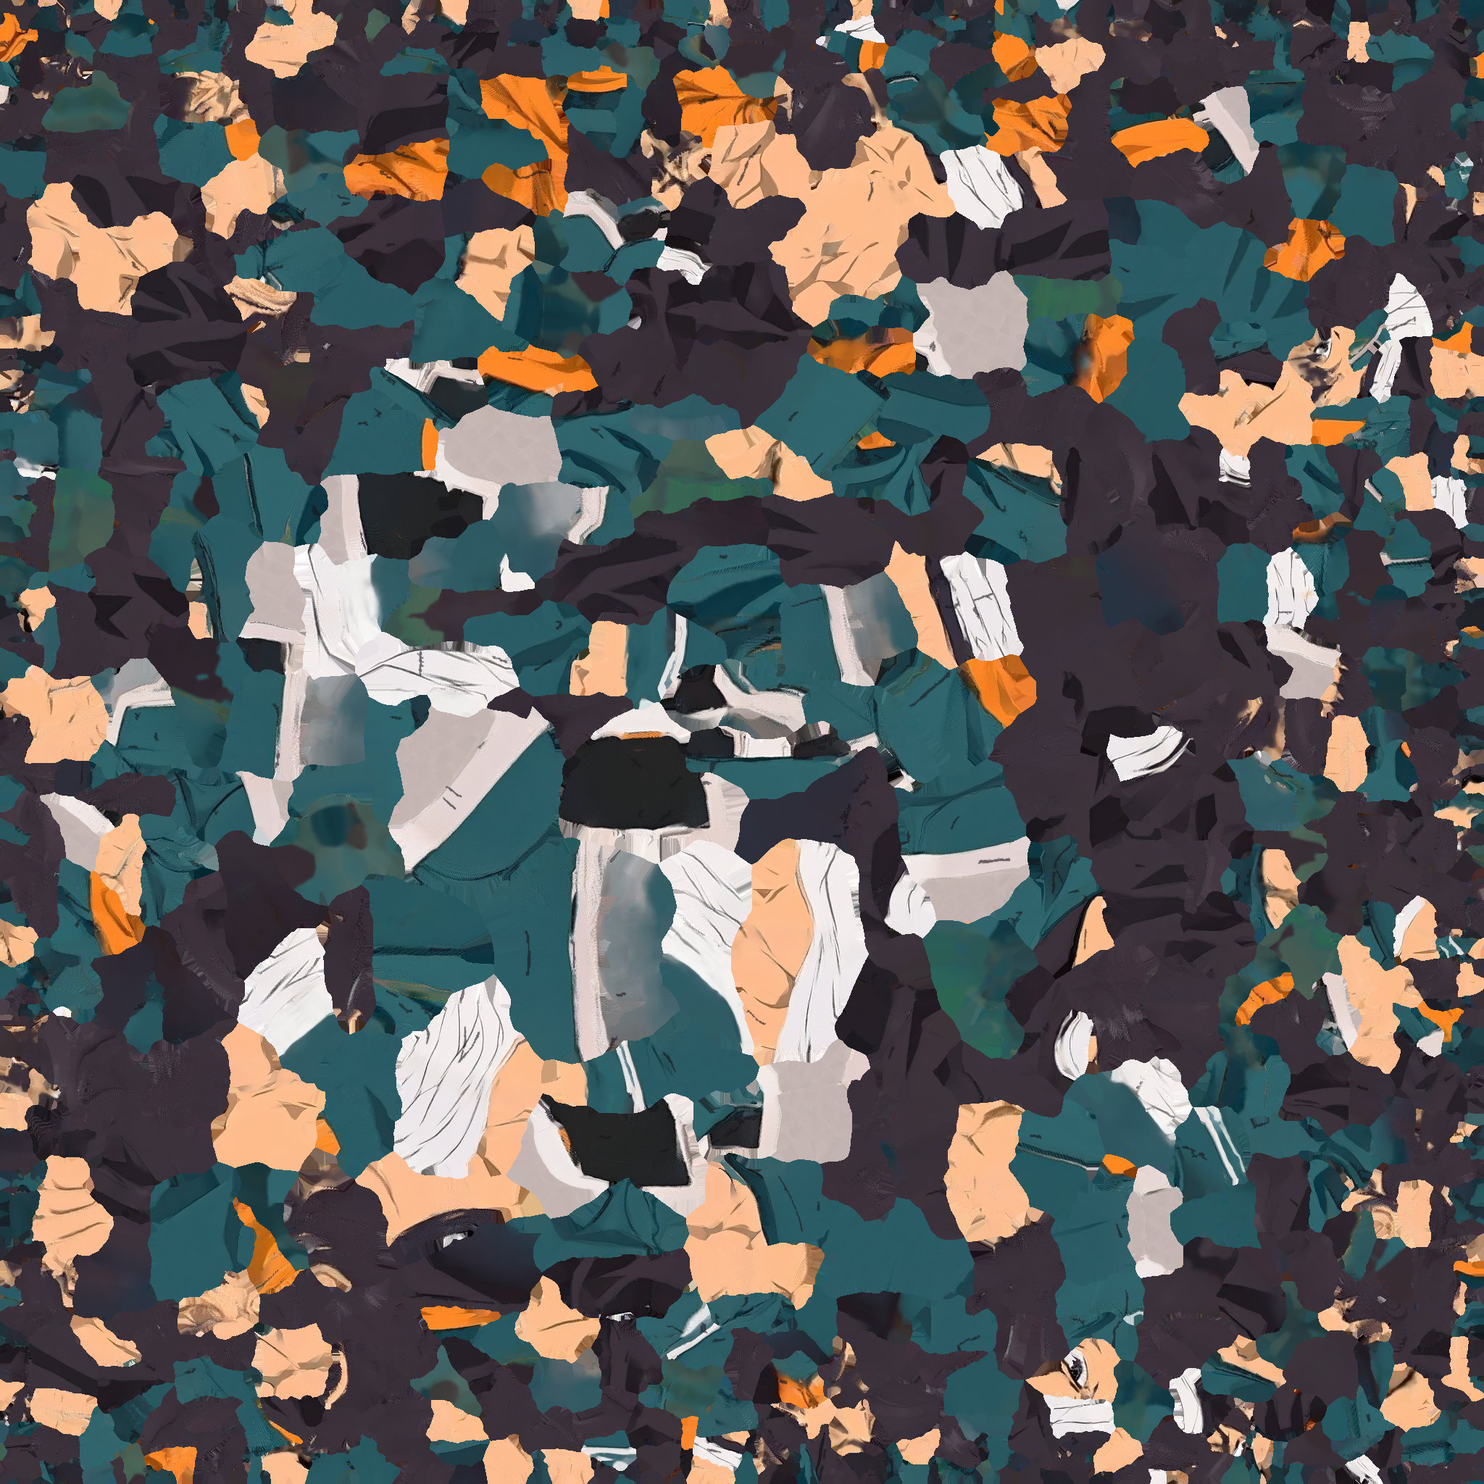
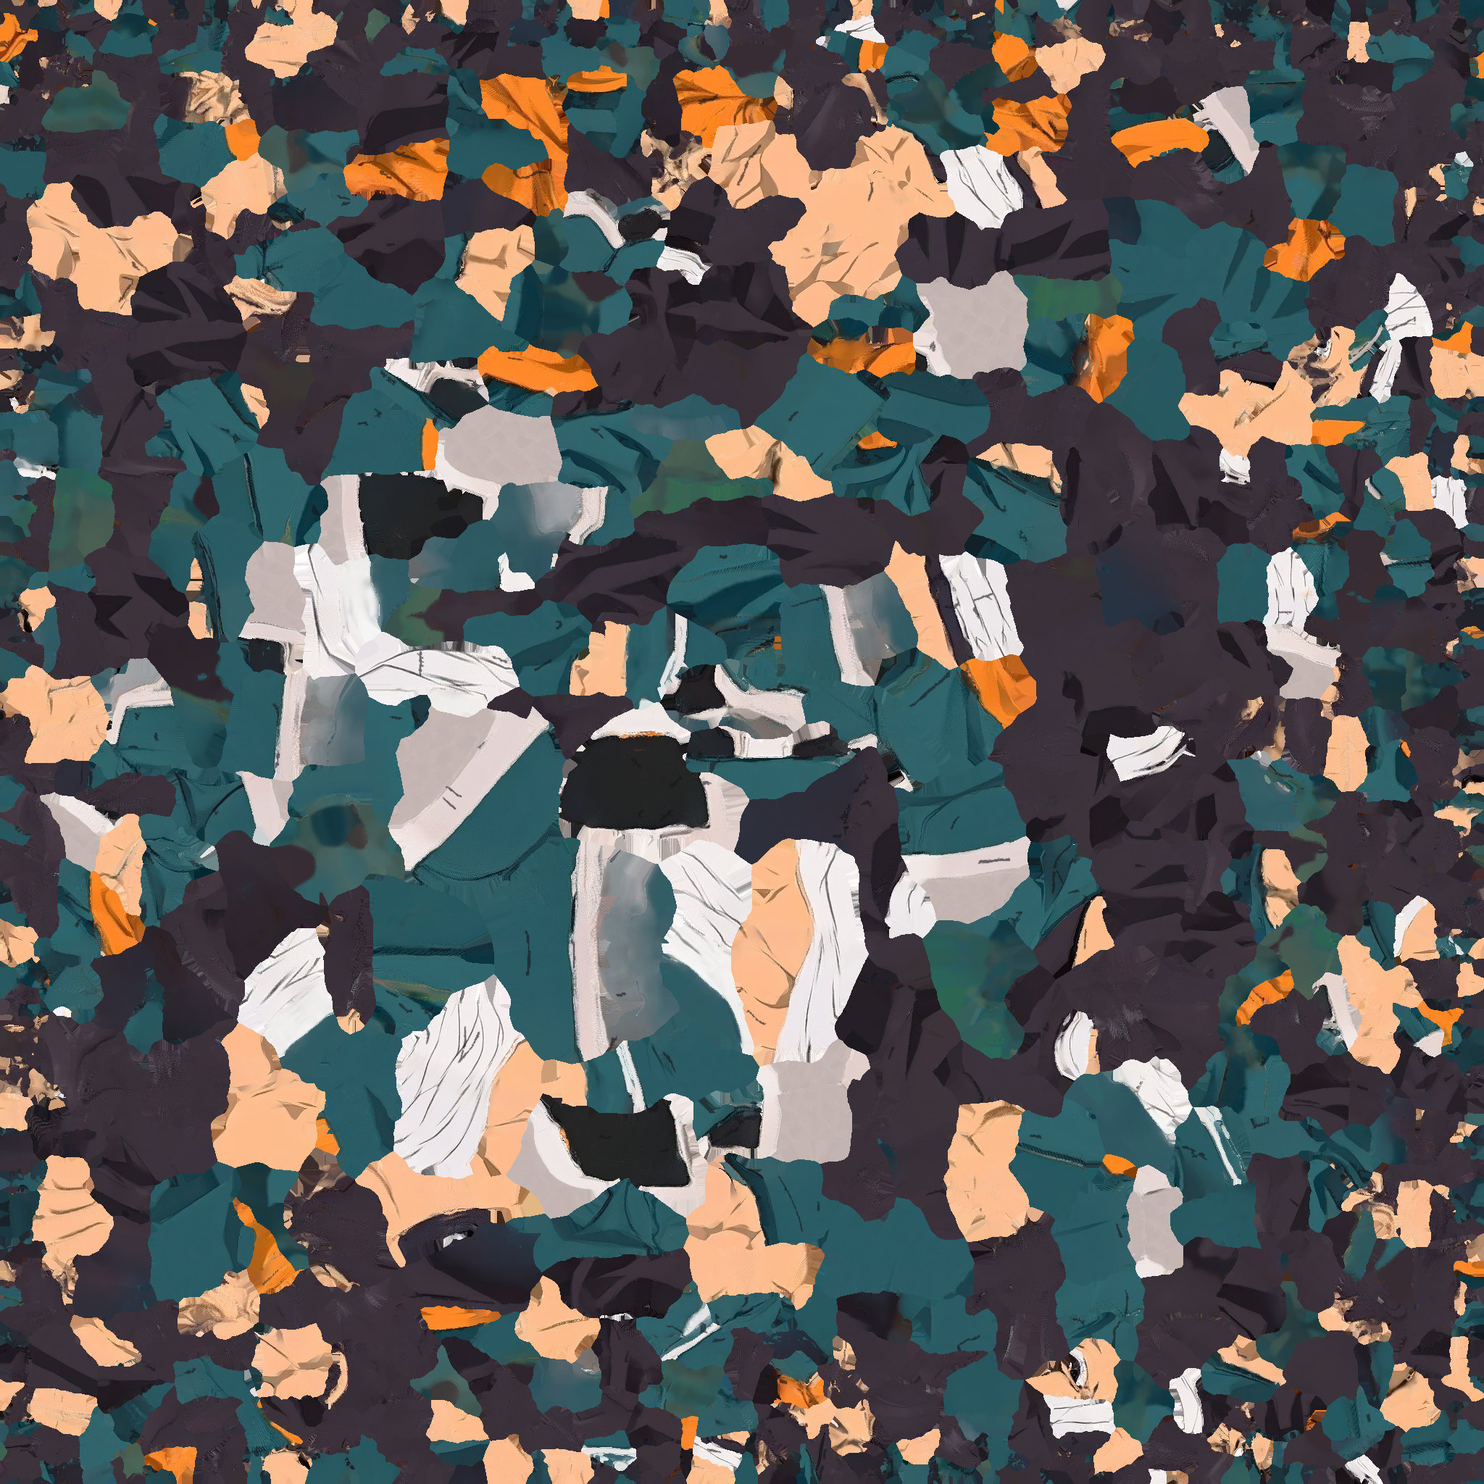
Anteprima di Ren: bordi netti tra i colori del corpo
paint_meshy.clean_borders: ogni texel vicino a un bordo tra due parti
(gilet, pelle, fasce, scuri, fascia arancione) prende il colore della
parte che il modello ha li', calcolata in 3D attraverso le cuciture: via
i denti, gli schizzi e le mezze tinte del pennello di Meshy (arancione sul
gilet, pelle nei polsini, verde agli scalfi) e lo zigzag dei triangoli
sul bordo della fascia. Le righe scure restano.

Claude-Session: https://claude.ai/code/session_014XUVKvWBodq3kjfPiKyGRo

diff --git a/tools/paint_meshy.py b/tools/paint_meshy.py
@@ -16,6 +16,10 @@ usage: python3 tools/paint_meshy.py PACKAGE_DIR DRAWN.jpg OUT.jpg
   shapes (the clothes they covered, painted in greys and tans by Meshy: grey shards along the vest's edge once the tails
   were gone, 9/11/2026, Denis: "ce ancora un pezzo di fascia rimuovilo") every colour but the vest's teal and the
   trousers' purple, in one of the two: the one most of the nearest texels are;
+- the borders between the parts clean (clean_borders; 9/11/2026, Denis: "dove si sovrappongono i colori"): Meshy's brush
+  left each part's colour in ragged teeth, specks and mixes over the next one (the sash's orange on the vest, the skin
+  into the wristbands, the vest's green into the skin at the armholes), and along the texture's seams the zigzag of the
+  triangles; each texel near a border takes the colour of the part the model has there, smoothed on the model itself;
 - the tracing: the drawings' dark lines (darker than TRACE_LUM, thinner than about 2 TRACE_W + 1 texels: not the big
   black shapes of the folds; in pieces of TRACE_MIN texels or more: lines, not specks) over Meshy's paint in TRACE_INK,
   TRACE_ALPHA opaque; not on the hands (drawn spread differently) nor on the head;
@@ -34,6 +38,14 @@ from ren_look import sash_tails, SASH_BAND, TAILS_TOUCH
 TRACE_LUM, TRACE_W, TRACE_ALPHA, TRACE_INK, TRACE_MIN = 50., 2, .6, np.array([22., 20, 26]), 30
 TAIL_LOW, FILL_K = .12, 48   # the old tails' paint: from this height (m) up to the band; its fill: the median of that many texels
 TAIL_NEAR = .02   # the clothes under the old tails: this near (m) their hidden shapes, every colour but the vest's and the trousers'
+# the borders between the clothes, the skin and the sash clean (9/11/2026, Denis: "dove si sovrappongono i colori"): see
+# clean_borders. BORDER_SIGMA (m), BORDER_STEP (texels), BORDER_NN: the parts' shares around each texel, a gaussian of
+# that width over a sample every that many texels, its that many nearest; BORDER_NEAR: another part with that share or
+# more is a border near; BORDER_K: the colour of a texel redone is the median of that many of its part's nearest texels
+# away from the borders; BORDER_MIX: a texel of no part this near (rgb) the line between the colours of the two parts it
+# lies between is their mix (redone); BORDER_SPECK: a speck of one part inside another, up to that many texels (redone)
+BORDER_SIGMA, BORDER_STEP, BORDER_NN, BORDER_NEAR, BORDER_K, BORDER_MIX, BORDER_SPECK = .004, 2, 32, .12, 24, 45., 60
+TEAL_, SKIN_, LIGHT_, DARK_, ORANGE_, MIXED_ = range(6)
 
 
 def orangeish(c):
@@ -54,6 +66,89 @@ def purple(c):
     """The trousers' dark purple grey (n x 3): dark, red and blue not under green."""
     r, g, b = c[:, 0], c[:, 1], c[:, 2]
     return (c.mean(1) < 95) & (r >= g - 2) & (b >= g - 4) & ~orangeish(c)
+
+
+def parts(c):
+    """The part each colour belongs to (n x 3): the vest's teal (its shadows too), the skin (its shadows too), light (the
+    wraps and their grey folds, the trims), dark (the trousers' purple grey, the undershirt, the boots, the wristbands,
+    lines), the sash's orange, or a mix of none."""
+    r, g, b = c[:, 0], c[:, 1], c[:, 2]; lum = c.mean(1); mx, mn = c.max(1), c.min(1)
+    k = np.full(len(c), MIXED_)
+    k[(r > 100) & (b > .36 * r) & (b < .8 * r) & (g > .5 * r) & (g < .9 * r) & (r - b > 30)] = SKIN_
+    k[(mn > 120) & (mx - mn < 50)] = LIGHT_
+    k[(lum < 75) & (np.abs(r - b) < 45) & (g <= np.maximum(r, b) + 6)] = DARK_
+    k[(r > 120) & (b < .32 * r) & (g > .3 * r) & (g < .75 * r)] = ORANGE_
+    k[(g - r > np.maximum(6, .15 * g)) & (b - r > 0) & (lum > 12)] = TEAL_
+    return k
+
+
+def clean_borders(img, ys, xs, pos, nor):
+    """The borders between the parts (parts()) clean, as drawn: Meshy painted them with a brush, ragged, each part's
+    colour in teeth and specks over the other's and mixes of the two between, and along the texture's seams its pieces
+    meet in the triangles' zigzag. On the model (in 3D, across the seams): each part's share around every texel (its
+    texels, without the thin lines and specks: opened in the texture; a sample every BORDER_STEP texels, weighted by a
+    gaussian of BORDER_SIGMA m and by facing the same way) gives the texel its part, the one with the most; where another
+    part has BORDER_NEAR of it or more (a border near), a texel painted in that part's colour or in a mix of the two
+    (BORDER_MIX) takes its own part's colour; so does a speck (up to BORDER_SPECK texels) of a part inside another's;
+    dark lines are kept. The new colours: the median of the BORDER_K nearest texels of the part (in 3D) away from the
+    borders, softened among themselves. img (h x w x 3 float) is changed in place; returns the texels redone (a mask over
+    ys, xs)."""
+    TS = img.shape[0]; c = img[ys, xs]; k = parts(c)
+    cls = np.full((TS, TS), -1); cls[ys, xs] = k
+    big = np.full((TS, TS), -1)
+    for p_ in range(5):
+        r_ = 2 if p_ == DARK_ else 1
+        disk = np.hypot(*np.mgrid[-r_:r_ + 1, -r_:r_ + 1]) <= r_ + .01
+        big[ndimage.binary_opening(cls == p_, structure=disk)] = p_
+    kb = big[ys, xs]
+    smp = np.nonzero((kb >= 0) & (ys % BORDER_STEP == 0) & (xs % BORDER_STEP == 0))[0]
+    tree = cKDTree(pos[smp]); F = np.zeros((len(k), 5))
+    for i0 in range(0, len(k), 200000):
+        q = slice(i0, min(i0 + 200000, len(k)))
+        d, j = tree.query(pos[q], k=BORDER_NN, distance_upper_bound=3 * BORDER_SIGMA)
+        ok = np.isfinite(d); j = np.where(ok, j, 0)
+        w = np.exp(-.5 * (np.where(ok, d, 0) / BORDER_SIGMA) ** 2) * ok * np.clip((nor[smp][j] * nor[q][:, None, :]).sum(2), 0, 1)
+        for p_ in range(5): F[q, p_] = (w * (kb[smp][j] == p_)).sum(1)
+    tot = F.sum(1); F /= np.maximum(tot, 1e-9)[:, None]
+    has = tot > 1e-6
+    order = np.argsort(-F, 1); s_ = np.where(has, order[:, 0], -1); o_ = order[:, 1]
+    f2 = np.take_along_axis(F, o_[:, None], 1)[:, 0]
+    near = has & (f2 >= BORDER_NEAR)
+    speck = np.zeros(len(k), bool)
+    for p_ in (TEAL_, SKIN_, LIGHT_, ORANGE_):
+        lb, nb = ndimage.label(cls == p_, structure=np.ones((3, 3)))
+        if not nb: continue
+        sz = np.bincount(lb.ravel())[lb[ys, xs]]
+        speck |= (k == p_) & (sz <= BORDER_SPECK) & has & (s_ != p_)
+    pure = has & (k == s_) & (F.max(1) > .97)
+    src = {p_: np.nonzero(pure & (k == p_))[0] for p_ in range(5)}
+    trees = {p_: cKDTree(pos[v]) for p_, v in src.items() if len(v) >= BORDER_K}
+    def median_of(p_, q):
+        _, j = trees[p_].query(pos[q], k=BORDER_K); return np.median(c[src[p_][j]], axis=1)
+    redo = np.zeros(len(k), bool); new = c.copy()
+    a = (near & (k == o_) & (k != s_)) | speck   # (another part's colour near its border; a speck)
+    mix = near & (k == MIXED_)
+    for p_ in range(5):
+        if p_ not in trees: continue
+        q = np.nonzero((a | mix) & (s_ == p_))[0]
+        if not len(q): continue
+        own = median_of(p_, q); keep_q = np.ones(len(q), bool); mq = mix[q]
+        for o2 in range(5):
+            sel = mq & (o_[q] == o2)
+            if not sel.any(): continue
+            if o2 not in trees: keep_q[sel] = False; continue
+            oth = median_of(o2, q[sel]); x = c[q[sel]]; e = oth - own[sel]
+            t = np.clip(((x - own[sel]) * e).sum(1) / np.maximum((e * e).sum(1), 1e-9), 0, 1)
+            dseg = np.linalg.norm(x - (own[sel] + t[:, None] * e), axis=1); keep_q[np.nonzero(sel)[0][dseg > BORDER_MIX]] = False
+        q = q[keep_q]; new[q] = own[keep_q]; redo[q] = True
+    acc = np.zeros((TS, TS, 3)); cnt = np.zeros((TS, TS)); acc[ys[redo], xs[redo]] = new[redo]; cnt[ys[redo], xs[redo]] = 1
+    sm = np.stack([ndimage.gaussian_filter(acc[..., i], 1.) for i in range(3)], -1) / np.maximum(ndimage.gaussian_filter(cnt, 1.), 1e-6)[..., None]
+    img[ys[redo], xs[redo]] = sm[ys[redo], xs[redo]]
+    names = ['vest', 'skin', 'light', 'dark', 'orange']
+    print('borders: %d texels redone (%d of another part near its border, %d mixes, %d specks); by part: %s' % (
+        int(redo.sum()), int((redo & a & ~speck).sum()), int((redo & mix).sum()), int((redo & speck).sum()),
+        ', '.join('%s %d' % (names[p_], int((redo & (s_ == p_)).sum())) for p_ in range(5))))
+    return redo
 
 
 def main(pkg, drawn, out):
@@ -93,6 +188,9 @@ def main(pkg, drawn, out):
     sm = np.stack([ndimage.gaussian_filter(acc[..., k], 1.5) for k in range(3)], -1) / np.maximum(ndimage.gaussian_filter(cnt, 1.5), 1e-6)[..., None]
     out_img[ys[bad], xs[bad]] = sm[ys[bad], xs[bad]]
     print('old tails\' paint: %d texels under the band (orange or brown) in the colour of the clothes around them' % int(bad.sum()))
+    # the borders between the parts clean (before the tracing: its lines stay as drawn)
+    redo = clean_borders(out_img, ys, xs, pos, nor)
+    if os.environ.get('BORDER_DEBUG'): np.savez(os.environ['BORDER_DEBUG'], ys=ys[redo], xs=xs[redo])
     # the tracing: the drawings' thin dark lines
     inside = np.zeros((TS, TS), bool); inside[ys, xs] = True
     dark = (Dw.mean(2) < TRACE_LUM) & inside

diff --git a/docs/HANDOFF.md b/docs/HANDOFF.md
@@ -150,6 +150,7 @@ Cose notate nelle revisioni; non costruirle finché Denis non lo chiede.
   - Corpo nella pittura di Meshy con calchi leggeri (8/11 sera, versione 44; Denis: "il modello di meshy senza i tuoi disegni è molto più pulito nei vestiti ed il resto del corpo senza toccare il viso, riesci a rifarlo disegnato come meshy ma con leggeri calchi?", e sulla 43: "non hai rimosso le fasce che abbiamo sostituito, le hai semplicemente colorate"): `tools/paint_meshy.py` fa la pittura del look (`ren_painted.jpg`) partendo dalla texture di Meshy: (1) l'arancione delle vecchie code (Meshy le aveva dipinte anche sui pantaloni e sulle punte del gilet sotto la fascia: puntini e strisce arancioni e marroni, chiari e scuri; e sulle code stesse, che pur nascoste lo trascinavano nei pantaloni vicini con il filtro della texture) prende il colore dei vestiti intorno (la mediana dei 48 texel più vicini in 3D che non sono arancioni: non una striscia chiara di Meshy); (2) le righe nere sottili dei fogli (quelle che `paint_from_drawing.py` + `paint_views.py` dipingono sul modello, solo le linee, non le grandi pieghe nere, a pezzi di almeno 30 texel) ricalcate al 60% sopra; (3) i texel fuori dai pezzi prendono il colore del pezzo più vicino (prima, attorno ai pezzi sottili restavano i colori vecchi: l'arancione delle code accanto a un texel dei pantaloni); (4) salvata a colore pieno (JPEG 4:4:4: con il colore a metà risoluzione l'arancione della fascia sbavava nei pantaloni ai bordi dei pezzi; 890 KB contro 705). Fasce di braccia e caviglie e stivali tornano quelli di Meshy (bianco pulito). La testa non cambia (il colletto prende la nuova pittura del gilet). `paint_from_drawing.py` e `paint_views.py` restano, ora servono a dare le righe. Tempo per fotogramma nel rumore (stessa geometria). Nota: `viewer_check.py` è fallito una volta su 9 prove (non ripetuto; il dettaglio non era nel registro).
   - Via l'ultimo pezzo della vecchia fascia (9/11 notte, versione 45; Denis: "ce ancora un pezzo di fascia rimuovilo", con la foto del fianco sinistro: schegge grigie e scure lungo il bordo del gilet tra la mano e il nastro): erano (1) la fila di triangoli che univa la vecchia coda al gilet (un solo vertice sulla coda: restava, a denti neri lungo il bordo) e (2) il gilet sotto la coda, che Meshy aveva dipinto di grigi e beige (non arancione: la regola dell'arancione non li prendeva; e il riempimento, la mediana di verde e viola insieme, faceva un grigio fangoso). Ora: `ren_look.TAILS_TOUCH = 1` (prima 2) in `ren_head.py` e `paint_meshy.py`: nascosti anche i triangoli con un solo vertice sulle code (148 in più, 9596 nascosti in tutto); in `paint_meshy.py`, entro `TAIL_NEAR` (2 cm) dalle code nascoste ogni colore che non è il verde del gilet (`teal`) né il viola dei pantaloni (`purple`) si ridipinge col colore di uno solo dei due, quello della maggioranza dei 48 texel vicini. Provato da 8 angoli da fermo e in 8 pose delle mosse (calci, camminata, accovacciato, a terra) con un controllo dei buchi (render degli id col contorno e i nastri spenti: sfondo chiuso dal corpo): nessun buco nuovo (359 pixel sospetti contro i 382 della 44, gli stessi punti, sotto i nastri o tra polso e fianco). Spariti anche i denti neri sul fianco destro visto di tre quarti e le schegge attorno al nodo nella posa "a terra". Resta una piccola punta verde scuro sotto l'orlo, vicino alla mano (triangoli di Meshy grigi sotto la coda: nasconderli apriva fessure nel gilet, provato e scartato). Tempo per fotogramma: 54,0 e 52,4 ms contro 57,9 e 54,3 della 44 (nel rumore, 148 triangoli in meno). Test tutti verdi.
   - Gobba sotto il colletto e fascia che si stira accovacciato (9/11, versione 46; Denis: "vestito crea sta specie di gobba sulla schiena sotto al colletto" e "la fascia si distorce quando si abbassa", con due foto dall'anteprima). (1) La gobba: il colletto della testa nuova toccava il gilet alla base (1,44-1,46 m) ma sopra stava 3 cm più dentro; in guardia la colonna si piega avanti di circa 26° e il retro del gilet saliva dietro il colletto come una gobba (nel foglio `ren_retro.png` il colletto è largo e poggia sulla schiena). Ora `ren_head.COLLAR_FLARE`: la parete posteriore del colletto (i suoi vertici, non testa né collo; da 1,455 m, tutta da 1,475 m; dietro il collo, z sotto -0,04, tutta sotto -0,08) va indietro di 3 cm, con le normali girate di conseguenza; le copie dei vertici sulle cuciture della texture si spostano insieme (spostate a parte aprivano il colletto: il raccordo col gilet passava da 119 a 169 punti). Da sopra si vede un po' di spazio tra collo e colletto, come un colletto aperto. Provato e scartato: spostare sulla colonna i pesi di braccia e spalle del retro del gilet (Meshy lo aveva legato per un terzo a ogni braccio): la gobba restava, anzi un filo più alta (in guardia le braccia la tiravano giù). (2) La fascia: Meshy l'aveva legata per un terzo alle cosce e in alto alla colonna, così accovacciato il retro si stirava fino a tre volte la sua altezza. Ora (`ren_look.band_on_hips`, solo nella pelle del look; il gioco non cambia) il retro della fascia (da 1,09 a 1,15 m; dietro z -0,04, sfuma a niente a +0,04; 3 cm di passaggio sopra e sotto) segue tutto il bacino: resta una striscia anche accovacciato, nel salto e nel calcio alto. Il davanti resta com'era: rigido anche lui, le cosce che salgono ci entravano e i nastri si accartocciavano nelle mosse basse (provato e scartato). Nastri dentro il corpo (`viewer_check`) uguali alla 45 (in basso 2,0-2,3%, a terra 2,2%). Controllo buchi su 12 viste e pose: nessuno nuovo. Tempo per fotogramma uguale (56,1 e 58,0 ms contro 56,4 e 57,7). Test tutti verdi.
+  - Bordi netti tra i colori (9/11, versione 47; Denis: "i colori della giacchetta verde sopra le braccia ecc in generale sul pg", poi "diciamo dove si sovrappongono i colori"). Cercato prima il verde sulle braccia: non c'è (zero texel verdi sulle braccia; la mappa dei colori di tutto il corpo è a posto). Quello che si vedeva da vicino nelle sue foto: i bordi tra due parti dipinti da Meshy a pennello, con denti, schizzi e mezze tinte di un colore sull'altro (l'arancione della fascia sul gilet e viceversa, la pelle nei polsini, il verde nella pelle agli scalfi), e lungo le cuciture della texture lo zigzag dei triangoli (i denti sul bordo basso della fascia da dietro). Ora `paint_meshy.clean_borders` (prima del ricalco delle righe): ogni texel ha la sua parte (`parts`: gilet, pelle, chiari, scuri, arancione, o mezza tinta); le quote di ogni parte intorno a ogni texel, calcolate sul modello in 3D (attraverso le cuciture; gaussiana di 4 mm, campioni ogni 2 texel, solo dalle zone grandi: le righe sottili non contano) danno a ogni texel la parte giusta; vicino a un bordo (l'altra parte ha almeno il 12%) un texel del colore dell'altra parte o di una mezza tinta fra le due prende il colore della sua parte (mediana dei 24 texel più vicini della parte, lontani dai bordi); anche gli schizzi fino a 60 texel di una parte dentro un'altra. Le righe scure restano. 32.888 texel ridipinti (2%), tutti lungo i bordi (confronto di tutto il corpo prima/dopo: cambiano solo scalfi, polsini, bordi della fascia, caviglie). Provato e scartato: la stessa pulizia per pezzo della texture (i denti sulle cuciture restavano). Provata anche (non applicata, da chiedere a Denis) una versione con le chiazze di Meshy schiarite su gilet e pelle (un tono pulito + la luce cartoon + le righe). Tempo per fotogramma uguale (56,5 e 57,1 ms contro 55,5 e 57,1). Test tutti verdi.
   - `tools/paint_head.py` (pittura della testa dalle 3 viste) è provato ma non usato: proiettato, il disegno si sdoppiava sugli occhi; la texture di Meshy è più pulita.
   - Tempo per fotogramma nell'anteprima, in software: 63,0 ms contro 57,7 della versione 16 (+9%, media di 6 misure alternate; la testa ha 14.000 triangoli più il suo contorno). Una testa da 12.000 triangoli avrebbe i capelli più spigolosi dietro: scartata. Il gioco non cambia (look spento).
 - `paint_from_drawing.py` ora riempie anche gli spazi tra i pezzi della texture col colore del pezzo vicino: i vecchi colori lì si vedevano come crepe lungo le cuciture.
@@ -161,4 +162,4 @@ Cose notate nelle revisioni; non costruirle finché Denis non lo chiede.
 - Per dopo (annotate, non fatte): i fogli del corpo che Denis ha mandato l'8/11 (`docs/ref/personaggi/ren_busto_3viste.png`, `ren_gambe_3viste.png`: destra, fronte, sinistra; `ren_retro.png`: tutto il corpo da dietro; il foglio della testa che ha rimandato è identico a `ren_testa_3viste.png`) per rifare o ridipingere il corpo dai lati e da dietro (fasce con il polsino scuro, stivali, pantaloni, code della fascia arancione), oggi dipinto solo dalla vista di fronte di `ren.png`; l'ombra nera sotto il mento come nel foglio (una V spessa sul collo, sotto la mascella; nel foglio c'è in tutte e tre le viste), da proporre a Denis prima di farla; in guardia la testa alzata di 20° invece di 12° (`headUp` del look: provato in una copia, con 20° si vedono entrambi gli occhi sopra il pugno, a 28° sembra guardare in alto; è una scelta di posa, da decidere con Denis); stesso metodo delle 3 viste per Kael, se Denis fa il suo foglio; se Denis vuole punte dei capelli ancora più lunghe, un'altra prova Meshy (30 crediti; alleggerire il modello non le arrotonda: a 60.000 e a 16.000 triangoli la sagoma è la stessa).
 
 ## Prossimo passo
-Denis guarda l'anteprima (versione 46: il corpo nella pittura pulita di Meshy con le righe dei fogli ricalcate leggere, niente più arancione né schegge delle vecchie code, il colletto unito al gilet e senza gobba dietro, la fascia che non si stira accovacciato; il viso approvato: "finalmente la faccia è buona") con la testa nuova dal suo foglio, le tempie pulite, il colletto rigido, le fasce e gli stivali come il disegno. Se gli piace: accendere il look nel gioco con i 3 passi scritti sopra ("Per accendere il look nel gioco"), test, ripubblicare gioco e app. Poi: Kael di Meshy (modello dal suo disegno + scheletro; le animazioni si riusano), mostrando prima saldo e costo.
+Denis guarda l'anteprima (versione 47: il corpo nella pittura pulita di Meshy con le righe dei fogli ricalcate leggere, niente più arancione né schegge delle vecchie code, il colletto unito al gilet e senza gobba dietro, la fascia che non si stira accovacciato, i bordi tra i colori netti; il viso approvato: "finalmente la faccia è buona") con la testa nuova dal suo foglio, le tempie pulite, il colletto rigido, le fasce e gli stivali come il disegno. Se gli piace: accendere il look nel gioco con i 3 passi scritti sopra ("Per accendere il look nel gioco"), test, ripubblicare gioco e app. Poi: Kael di Meshy (modello dal suo disegno + scheletro; le animazioni si riusano), mostrando prima saldo e costo.

diff --git a/docs/meshy/REN.md b/docs/meshy/REN.md
@@ -71,5 +71,5 @@ Rifarla (i GLB stanno in `meshy/meshy_output/20261108_011130_voidrise-ren-testa_
    `python3 tools/paint_views.py assets/ren /tmp/ren_drawn.jpg` (i fogli dipinti sul modello: davanti, dietro, tre
    quarti; da qui si prendono solo le righe sottili), poi `python3 tools/paint_meshy.py assets/ren /tmp/ren_drawn.jpg
    viewer_assets/ren/ren_painted.jpg` (la texture di Meshy, via l'arancione delle vecchie code sotto la fascia e i grigi
-   del gilet che stava sotto di loro, le righe ricalcate); poi di nuovo il passo 2 (il colletto prende la pittura del
+   del gilet che stava sotto di loro, i bordi tra le parti netti, le righe ricalcate); poi di nuovo il passo 2 (il colletto prende la pittura del
    gilet; nasconde le vecchie code con la fila che le univa al gilet, `ren_look.TAILS_TOUCH`), poi `bash mk.sh`.
